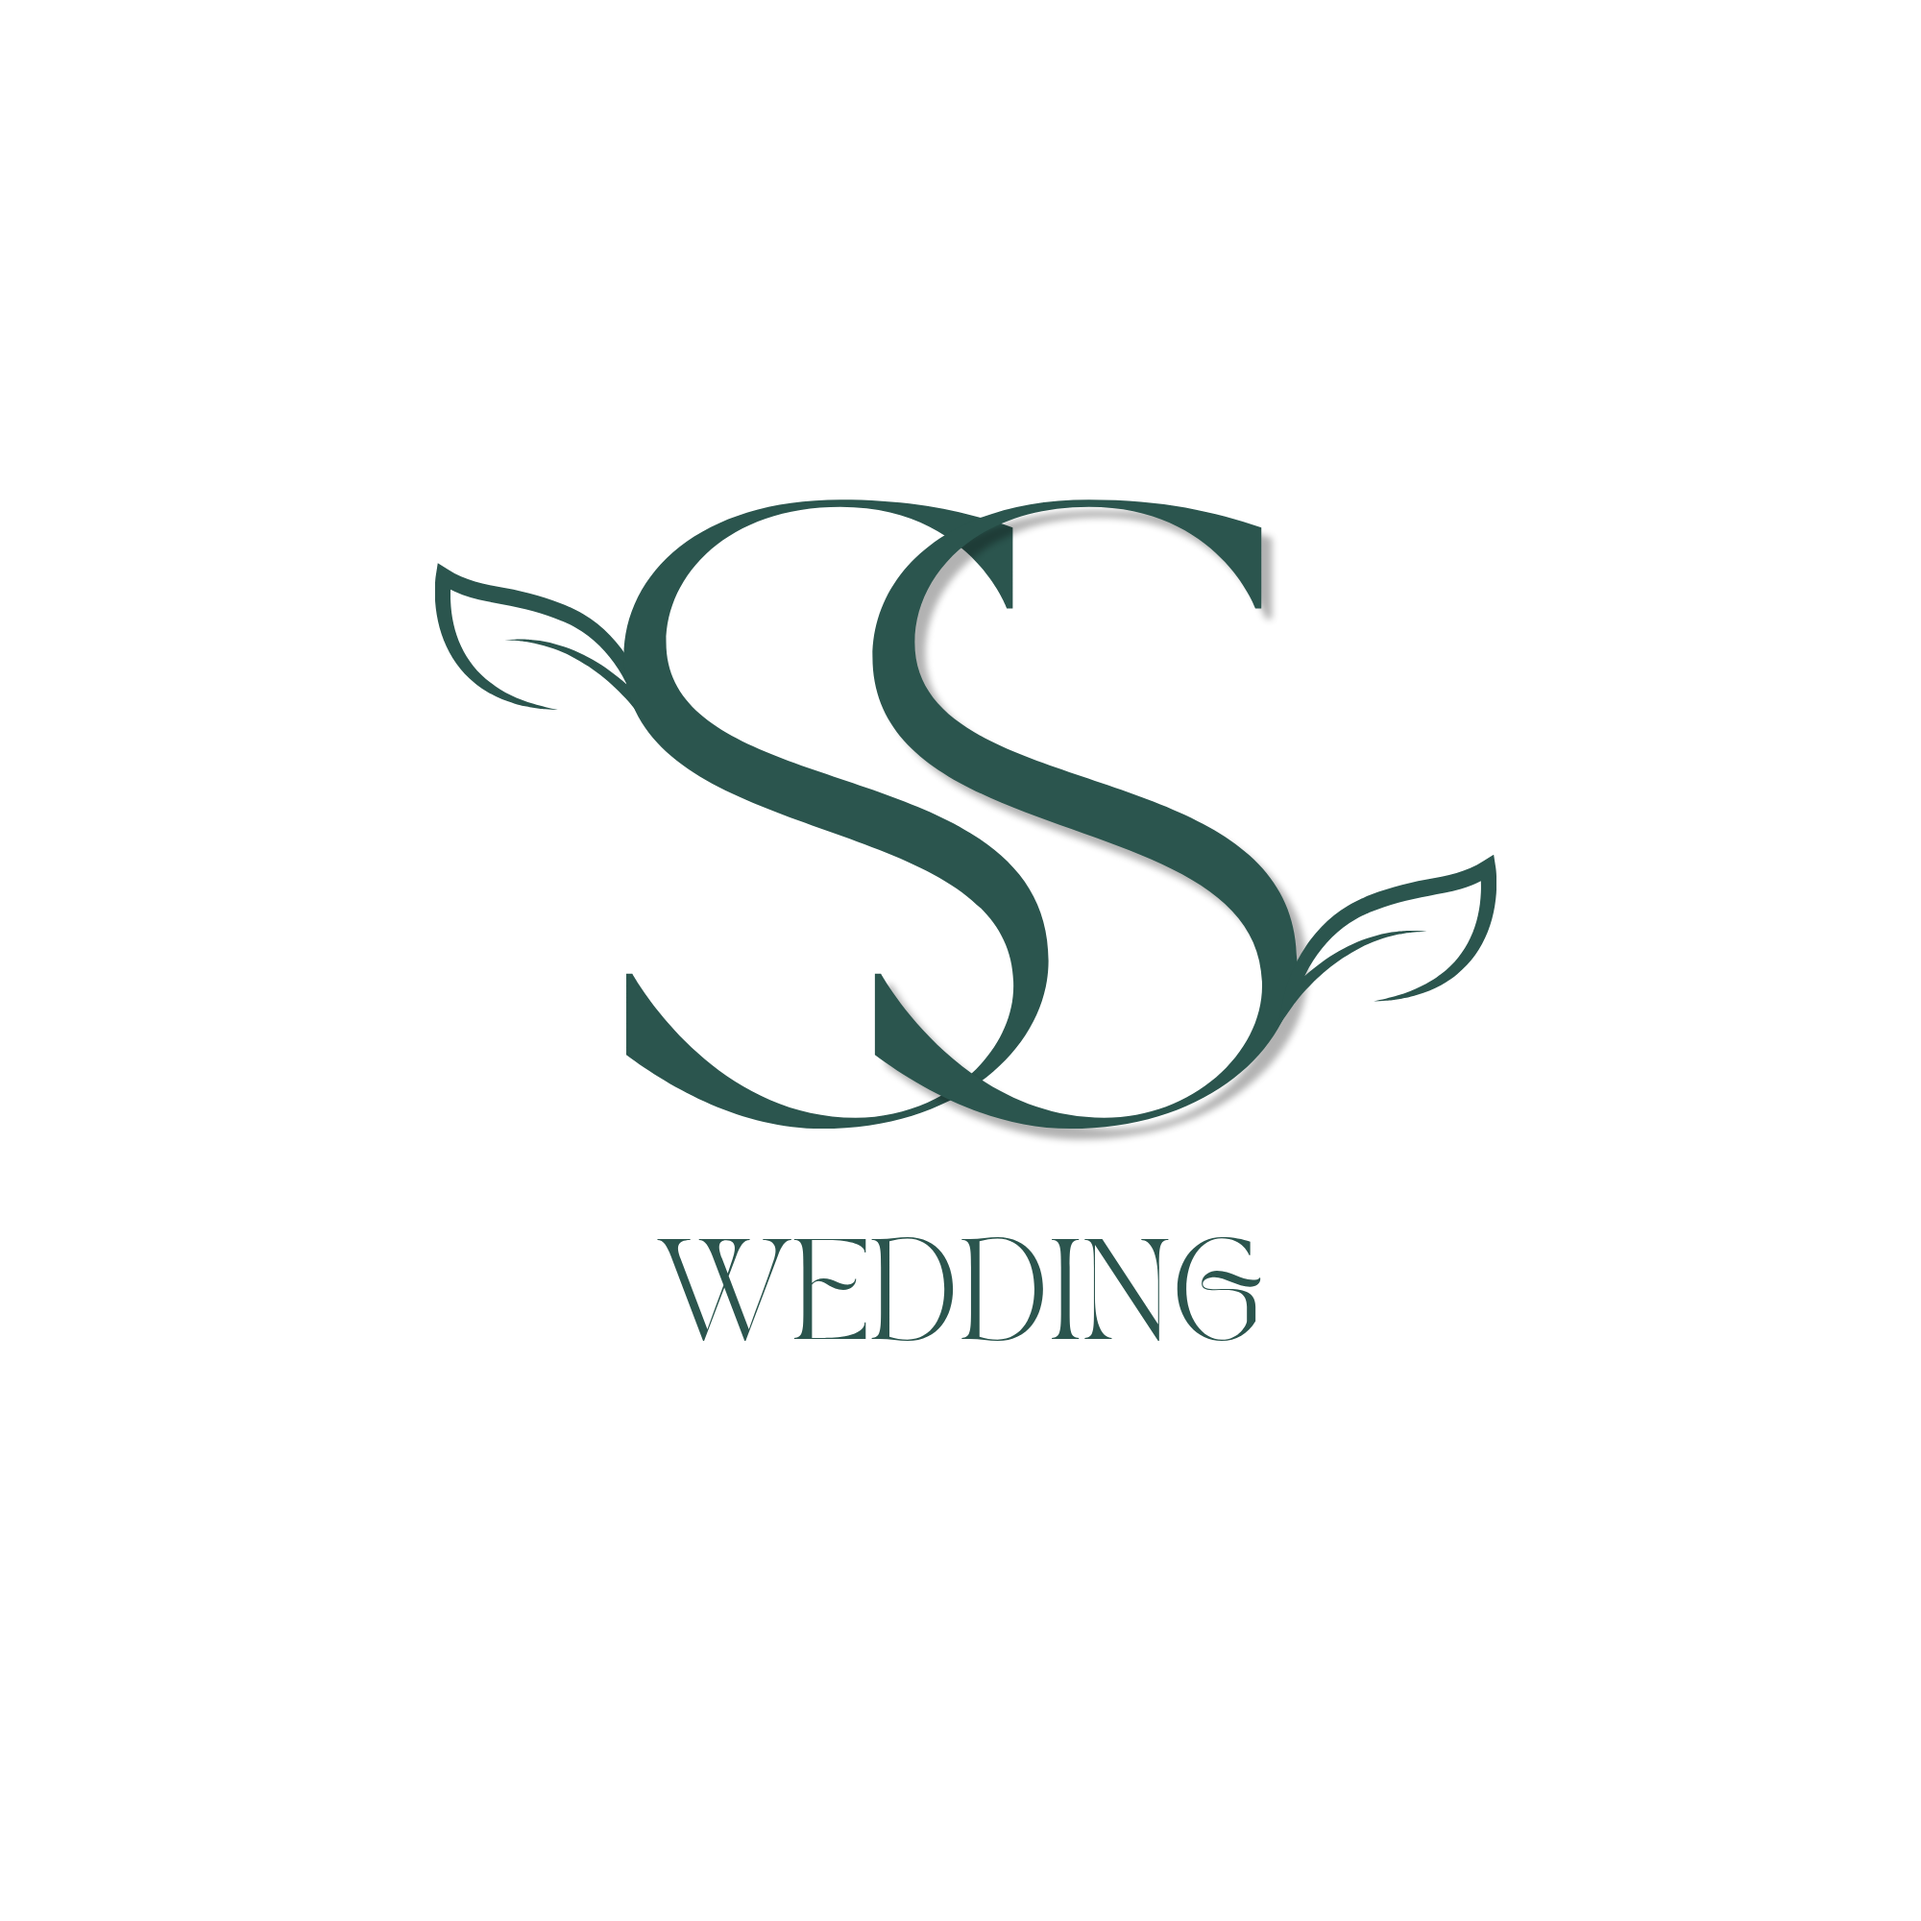
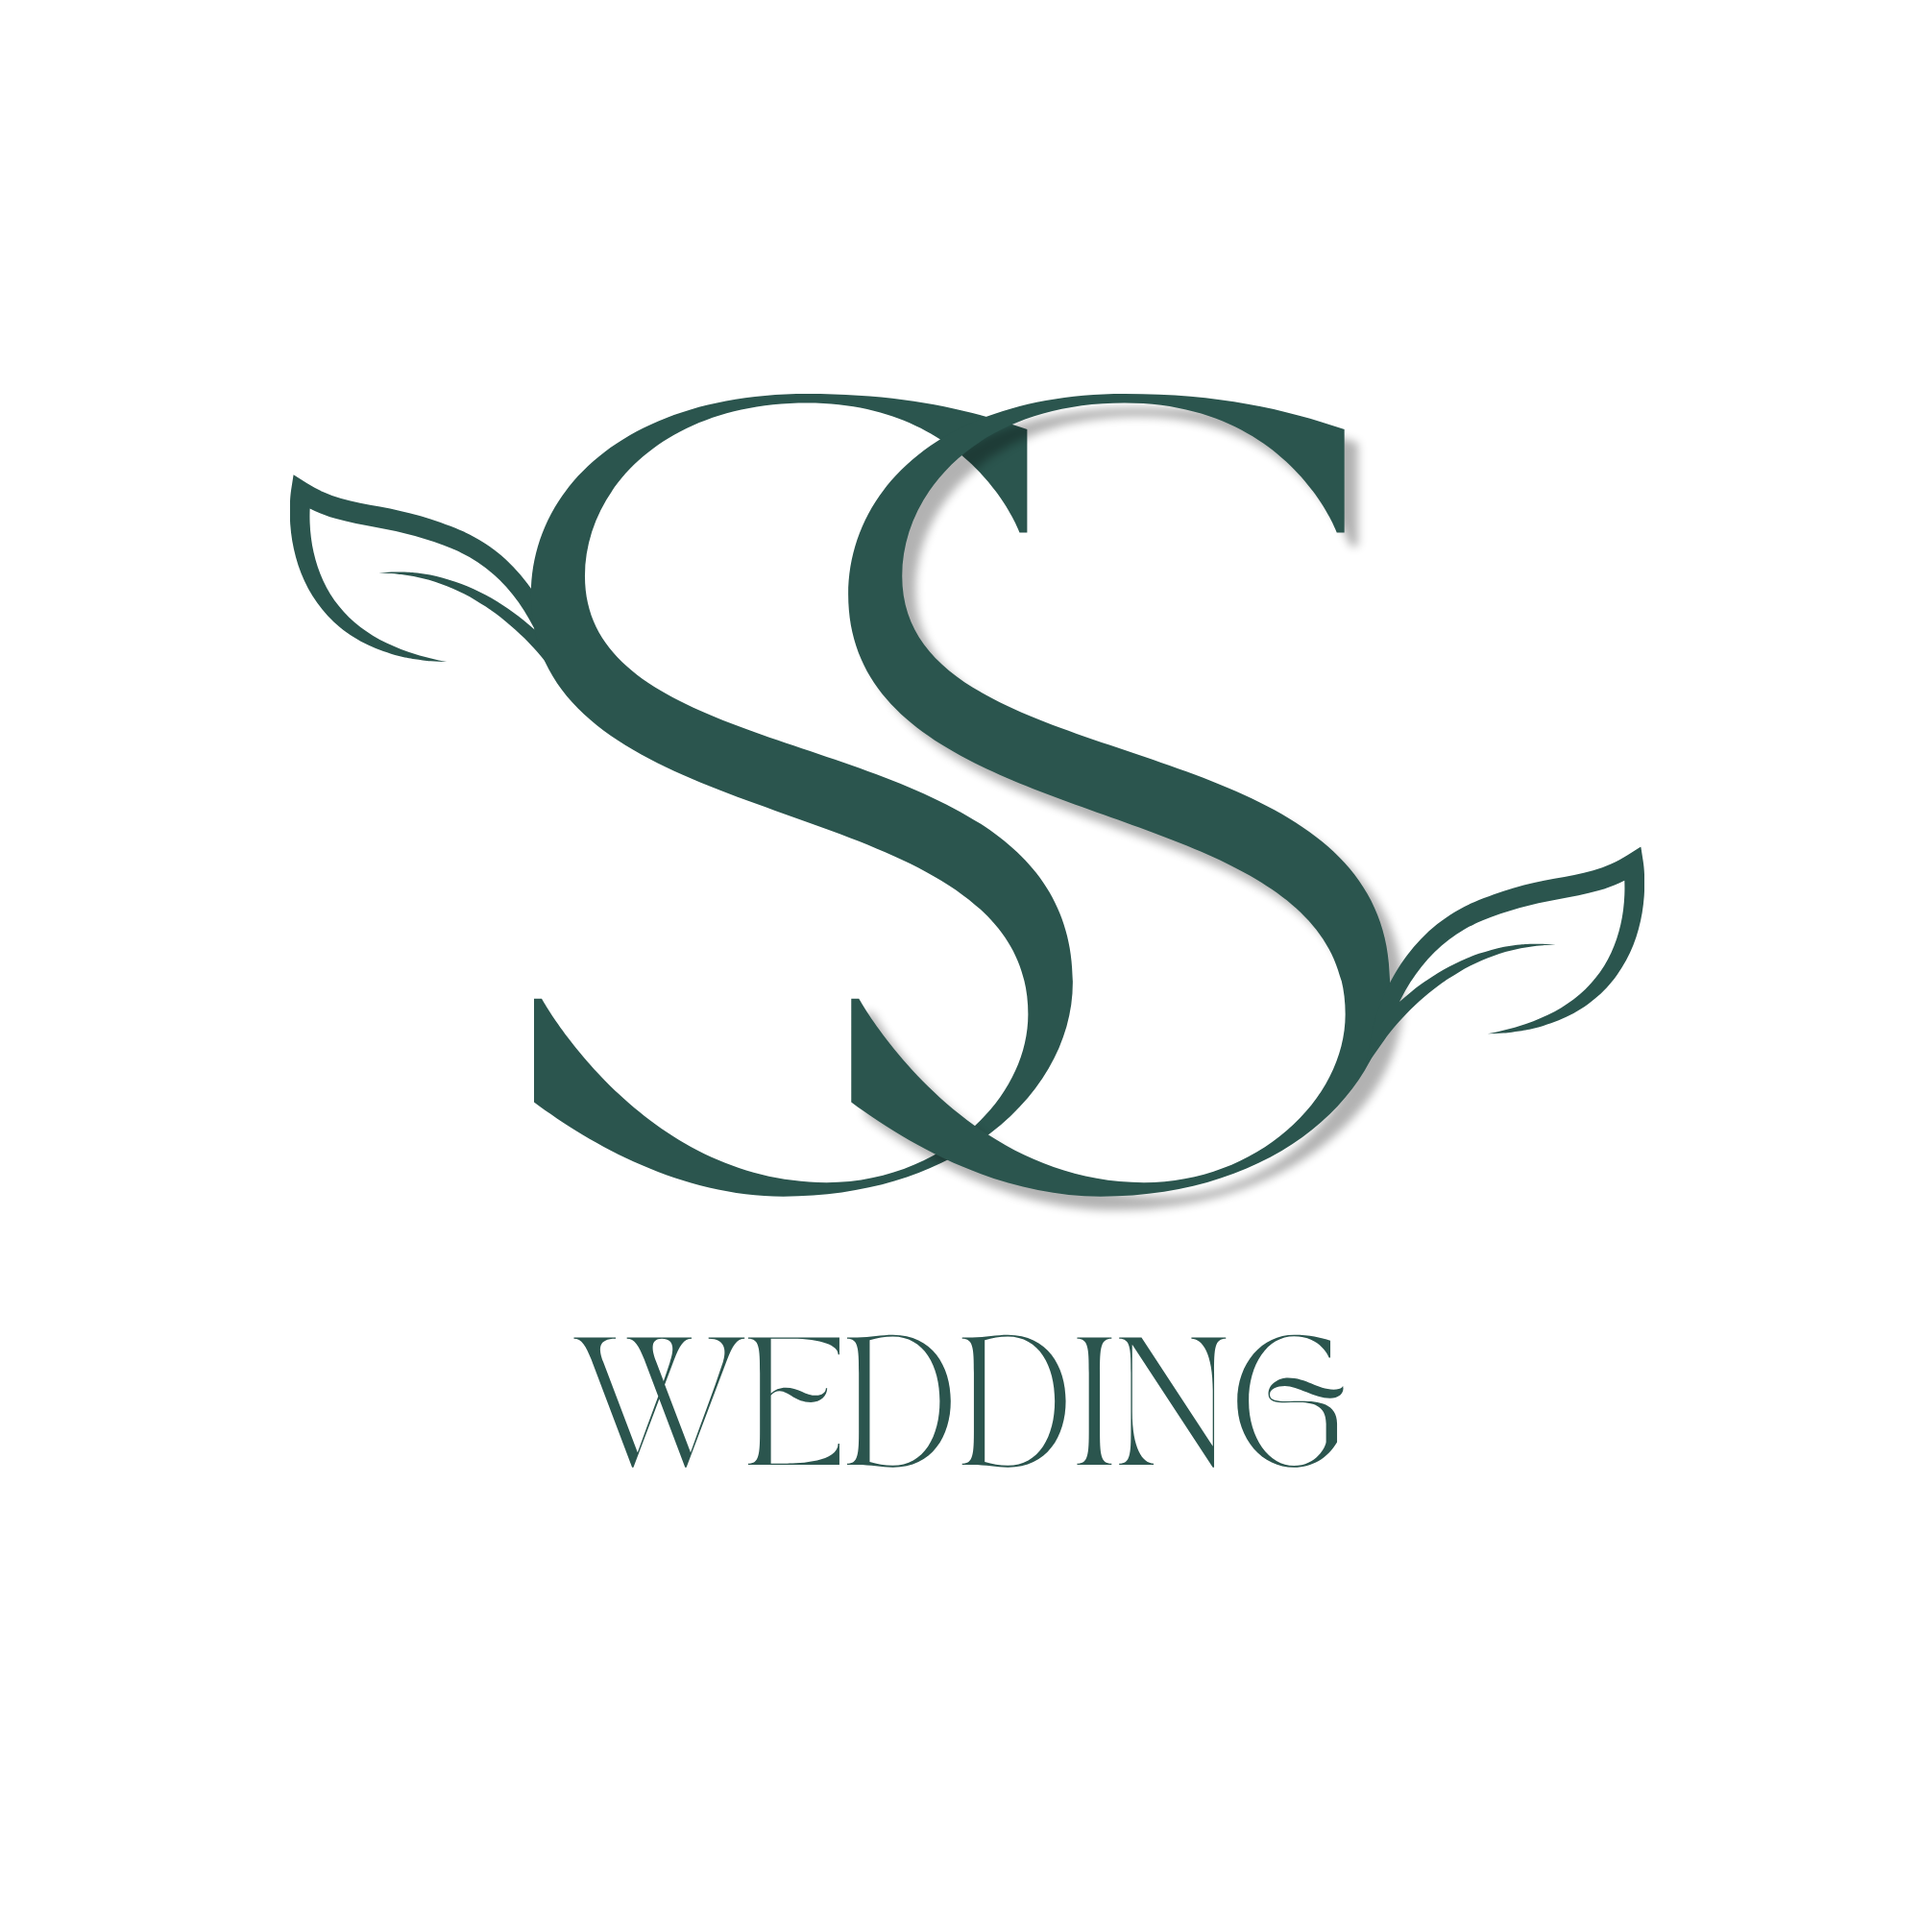
ss weding

Changed region(s): [[0.124, 0.186, 0.868, 0.775]]

diff --git a/src/App.jsx b/src/App.jsx
@@ -288,7 +288,7 @@ export default function App() {
       <div className={`loading-page welcome-page ${isInviteOpen ? "welcome-hidden" : ""}`} id="welcome">
         <div className="d-flex justify-content-center align-items-center h-100">
           <div className="text-center">
-            <img src={inviteConfig.media.welcomeImage} className="img-center-crop mb-4 mx-auto" alt="Welcome emblem" />
+            <img src={inviteConfig.media.welcomeImage} className="img-center-crop mb-2 mx-auto" alt="Welcome emblem" />
             {inviteConfig.couple.titleLogo ? (
               <img
                 src={inviteConfig.couple.titleLogo}
